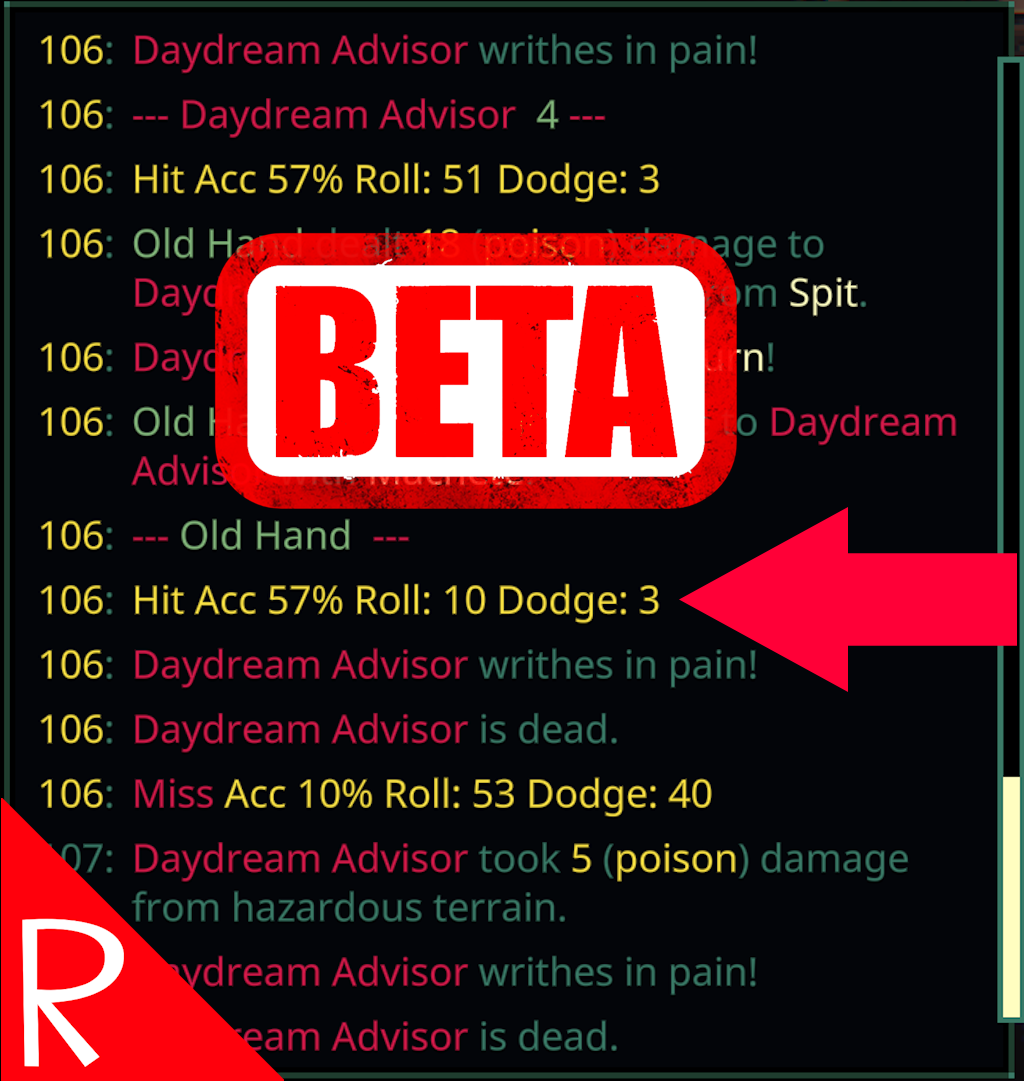
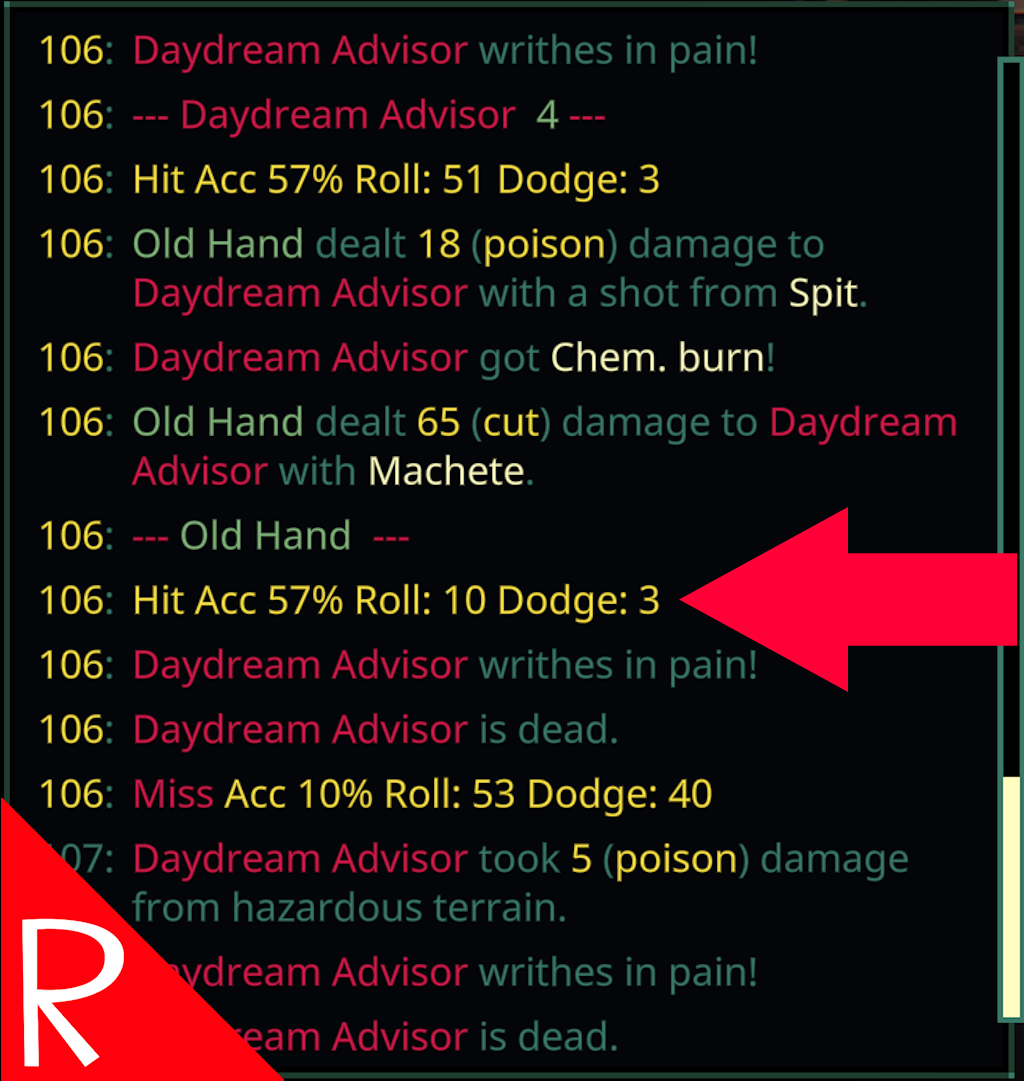
readme and image update

Changed region(s): [[0.1875, 0.2137, 0.7188, 0.4884]]

diff --git a/README.md b/README.md
@@ -4,9 +4,6 @@
 Adds the hit percentages to the combat log.
 Note: The developers have hinted at the combat log having more information in the future, so this may be a short lived mod.
 
-# Important
-This version of the mod is only for the opt in beta version of the game!
-
 # Docs
 Example:  `Hit Acc 57% Roll: 51 Dodge: 3`
 
